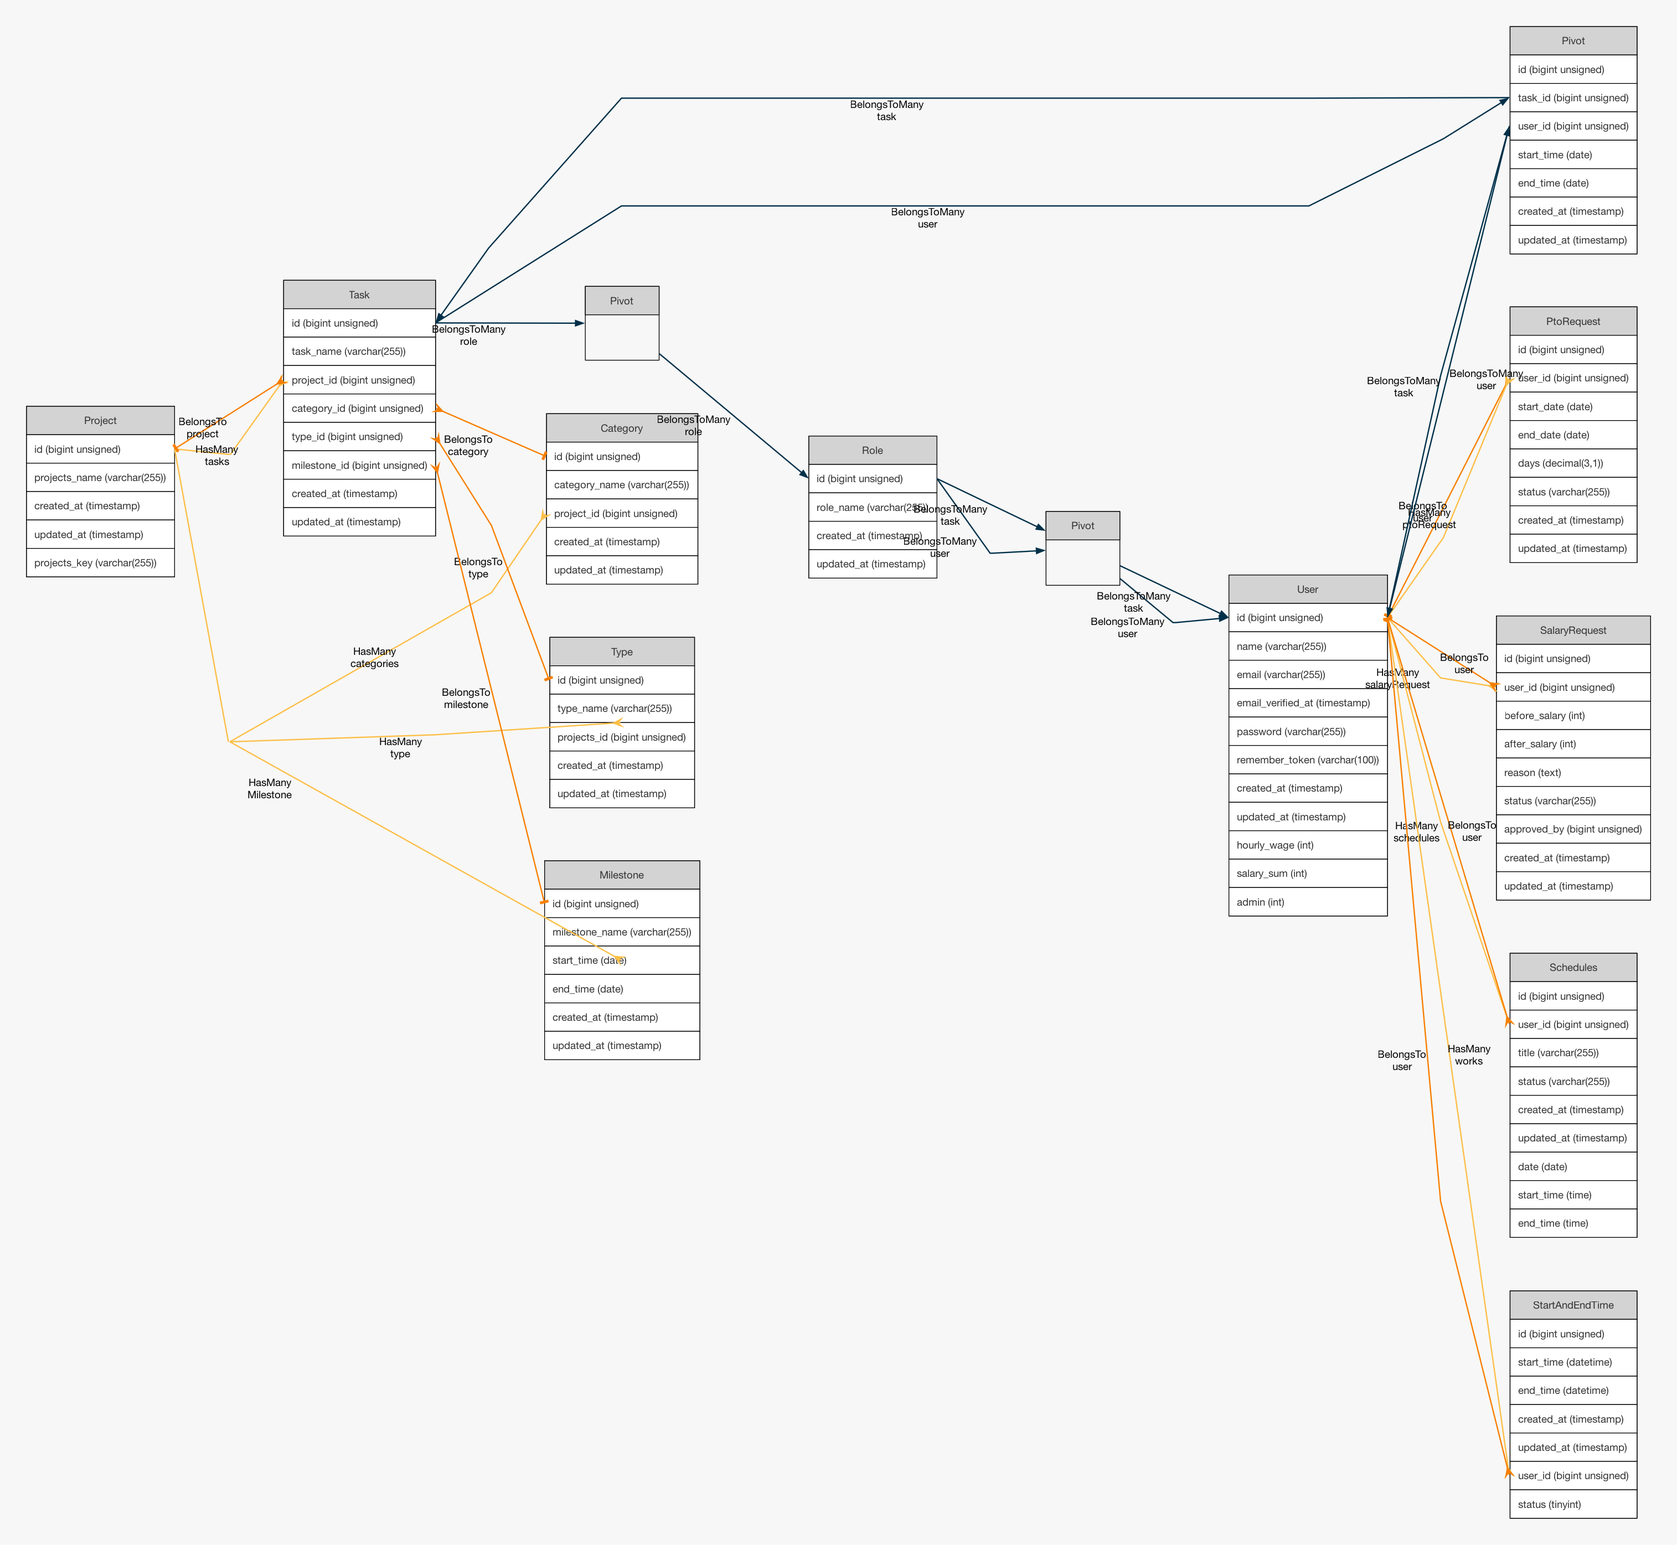
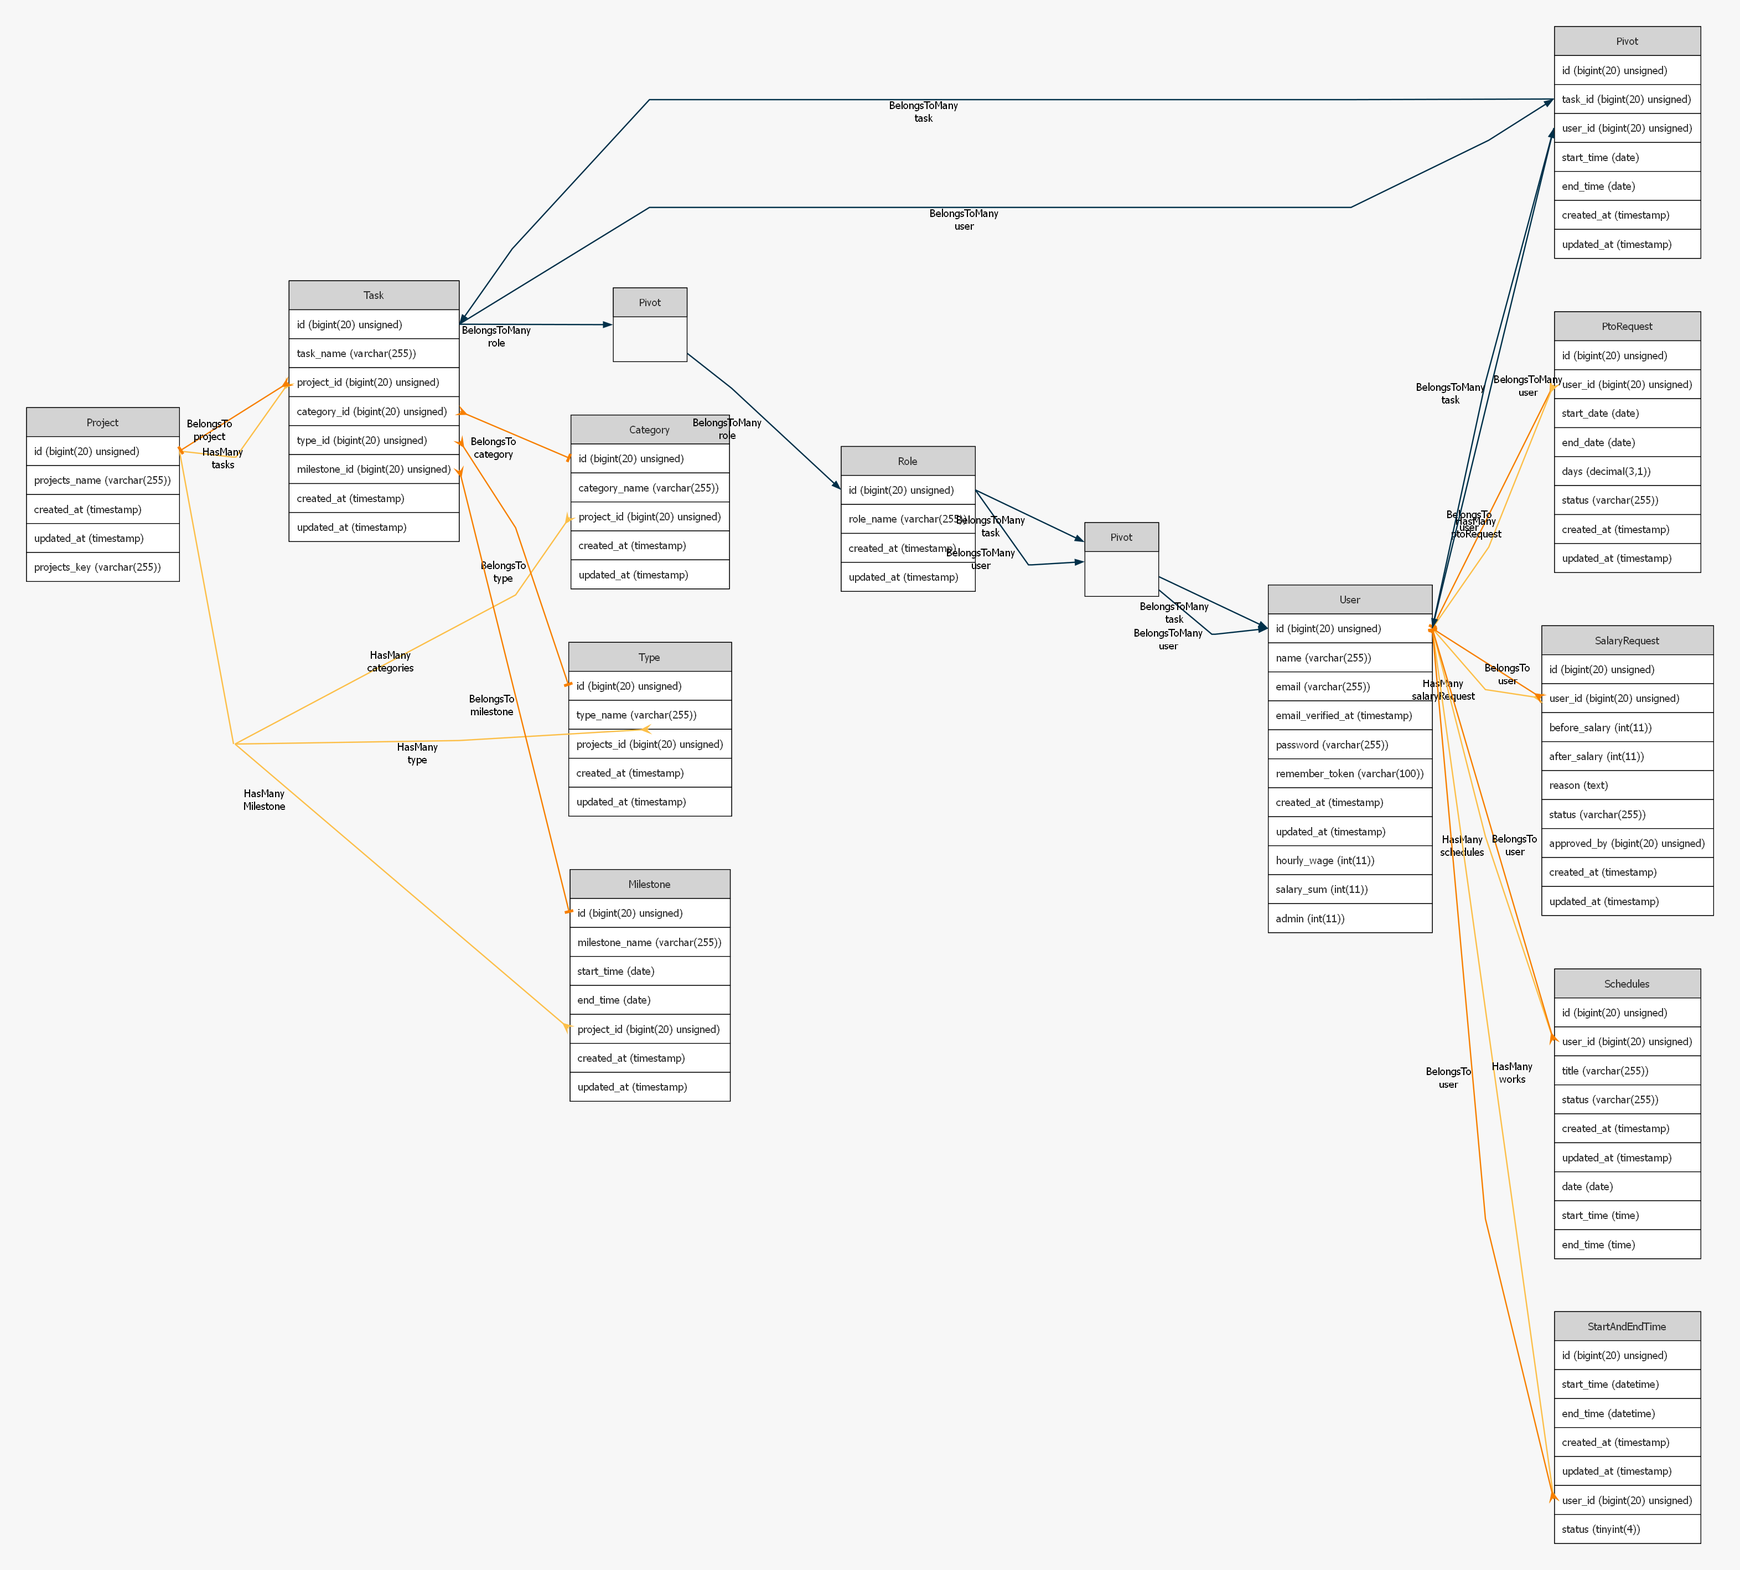
とりあえず追加

diff --git a/.phpstorm.meta.php b/.phpstorm.meta.php
@@ -162,6 +162,7 @@ namespace PHPSTORM_META {
             'blade.compiler' => \Illuminate\View\Compilers\BladeCompiler::class,
             'cache' => \Illuminate\Cache\CacheManager::class,
             'cache.store' => \Illuminate\Cache\Repository::class,
+            'command.generate:diagram' => \BeyondCode\ErdGenerator\GenerateDiagramCommand::class,
             'command.ide-helper.eloquent' => \Barryvdh\LaravelIdeHelper\Console\EloquentCommand::class,
             'command.ide-helper.generate' => \Barryvdh\LaravelIdeHelper\Console\GeneratorCommand::class,
             'command.ide-helper.meta' => \Barryvdh\LaravelIdeHelper\Console\MetaCommand::class,
@@ -360,6 +361,7 @@ namespace PHPSTORM_META {
             'blade.compiler' => \Illuminate\View\Compilers\BladeCompiler::class,
             'cache' => \Illuminate\Cache\CacheManager::class,
             'cache.store' => \Illuminate\Cache\Repository::class,
+            'command.generate:diagram' => \BeyondCode\ErdGenerator\GenerateDiagramCommand::class,
             'command.ide-helper.eloquent' => \Barryvdh\LaravelIdeHelper\Console\EloquentCommand::class,
             'command.ide-helper.generate' => \Barryvdh\LaravelIdeHelper\Console\GeneratorCommand::class,
             'command.ide-helper.meta' => \Barryvdh\LaravelIdeHelper\Console\MetaCommand::class,
@@ -558,6 +560,7 @@ namespace PHPSTORM_META {
             'blade.compiler' => \Illuminate\View\Compilers\BladeCompiler::class,
             'cache' => \Illuminate\Cache\CacheManager::class,
             'cache.store' => \Illuminate\Cache\Repository::class,
+            'command.generate:diagram' => \BeyondCode\ErdGenerator\GenerateDiagramCommand::class,
             'command.ide-helper.eloquent' => \Barryvdh\LaravelIdeHelper\Console\EloquentCommand::class,
             'command.ide-helper.generate' => \Barryvdh\LaravelIdeHelper\Console\GeneratorCommand::class,
             'command.ide-helper.meta' => \Barryvdh\LaravelIdeHelper\Console\MetaCommand::class,
@@ -756,6 +759,7 @@ namespace PHPSTORM_META {
             'blade.compiler' => \Illuminate\View\Compilers\BladeCompiler::class,
             'cache' => \Illuminate\Cache\CacheManager::class,
             'cache.store' => \Illuminate\Cache\Repository::class,
+            'command.generate:diagram' => \BeyondCode\ErdGenerator\GenerateDiagramCommand::class,
             'command.ide-helper.eloquent' => \Barryvdh\LaravelIdeHelper\Console\EloquentCommand::class,
             'command.ide-helper.generate' => \Barryvdh\LaravelIdeHelper\Console\GeneratorCommand::class,
             'command.ide-helper.meta' => \Barryvdh\LaravelIdeHelper\Console\MetaCommand::class,
@@ -954,6 +958,7 @@ namespace PHPSTORM_META {
             'blade.compiler' => \Illuminate\View\Compilers\BladeCompiler::class,
             'cache' => \Illuminate\Cache\CacheManager::class,
             'cache.store' => \Illuminate\Cache\Repository::class,
+            'command.generate:diagram' => \BeyondCode\ErdGenerator\GenerateDiagramCommand::class,
             'command.ide-helper.eloquent' => \Barryvdh\LaravelIdeHelper\Console\EloquentCommand::class,
             'command.ide-helper.generate' => \Barryvdh\LaravelIdeHelper\Console\GeneratorCommand::class,
             'command.ide-helper.meta' => \Barryvdh\LaravelIdeHelper\Console\MetaCommand::class,
@@ -1152,6 +1157,7 @@ namespace PHPSTORM_META {
             'blade.compiler' => \Illuminate\View\Compilers\BladeCompiler::class,
             'cache' => \Illuminate\Cache\CacheManager::class,
             'cache.store' => \Illuminate\Cache\Repository::class,
+            'command.generate:diagram' => \BeyondCode\ErdGenerator\GenerateDiagramCommand::class,
             'command.ide-helper.eloquent' => \Barryvdh\LaravelIdeHelper\Console\EloquentCommand::class,
             'command.ide-helper.generate' => \Barryvdh\LaravelIdeHelper\Console\GeneratorCommand::class,
             'command.ide-helper.meta' => \Barryvdh\LaravelIdeHelper\Console\MetaCommand::class,
@@ -1350,6 +1356,7 @@ namespace PHPSTORM_META {
             'blade.compiler' => \Illuminate\View\Compilers\BladeCompiler::class,
             'cache' => \Illuminate\Cache\CacheManager::class,
             'cache.store' => \Illuminate\Cache\Repository::class,
+            'command.generate:diagram' => \BeyondCode\ErdGenerator\GenerateDiagramCommand::class,
             'command.ide-helper.eloquent' => \Barryvdh\LaravelIdeHelper\Console\EloquentCommand::class,
             'command.ide-helper.generate' => \Barryvdh\LaravelIdeHelper\Console\GeneratorCommand::class,
             'command.ide-helper.meta' => \Barryvdh\LaravelIdeHelper\Console\MetaCommand::class,
@@ -1548,6 +1555,7 @@ namespace PHPSTORM_META {
             'blade.compiler' => \Illuminate\View\Compilers\BladeCompiler::class,
             'cache' => \Illuminate\Cache\CacheManager::class,
             'cache.store' => \Illuminate\Cache\Repository::class,
+            'command.generate:diagram' => \BeyondCode\ErdGenerator\GenerateDiagramCommand::class,
             'command.ide-helper.eloquent' => \Barryvdh\LaravelIdeHelper\Console\EloquentCommand::class,
             'command.ide-helper.generate' => \Barryvdh\LaravelIdeHelper\Console\GeneratorCommand::class,
             'command.ide-helper.meta' => \Barryvdh\LaravelIdeHelper\Console\MetaCommand::class,
@@ -1746,6 +1754,7 @@ namespace PHPSTORM_META {
             'blade.compiler' => \Illuminate\View\Compilers\BladeCompiler::class,
             'cache' => \Illuminate\Cache\CacheManager::class,
             'cache.store' => \Illuminate\Cache\Repository::class,
+            'command.generate:diagram' => \BeyondCode\ErdGenerator\GenerateDiagramCommand::class,
             'command.ide-helper.eloquent' => \Barryvdh\LaravelIdeHelper\Console\EloquentCommand::class,
             'command.ide-helper.generate' => \Barryvdh\LaravelIdeHelper\Console\GeneratorCommand::class,
             'command.ide-helper.meta' => \Barryvdh\LaravelIdeHelper\Console\MetaCommand::class,
@@ -1944,6 +1953,7 @@ namespace PHPSTORM_META {
             'blade.compiler' => \Illuminate\View\Compilers\BladeCompiler::class,
             'cache' => \Illuminate\Cache\CacheManager::class,
             'cache.store' => \Illuminate\Cache\Repository::class,
+            'command.generate:diagram' => \BeyondCode\ErdGenerator\GenerateDiagramCommand::class,
             'command.ide-helper.eloquent' => \Barryvdh\LaravelIdeHelper\Console\EloquentCommand::class,
             'command.ide-helper.generate' => \Barryvdh\LaravelIdeHelper\Console\GeneratorCommand::class,
             'command.ide-helper.meta' => \Barryvdh\LaravelIdeHelper\Console\MetaCommand::class,
@@ -2142,6 +2152,7 @@ namespace PHPSTORM_META {
             'blade.compiler' => \Illuminate\View\Compilers\BladeCompiler::class,
             'cache' => \Illuminate\Cache\CacheManager::class,
             'cache.store' => \Illuminate\Cache\Repository::class,
+            'command.generate:diagram' => \BeyondCode\ErdGenerator\GenerateDiagramCommand::class,
             'command.ide-helper.eloquent' => \Barryvdh\LaravelIdeHelper\Console\EloquentCommand::class,
             'command.ide-helper.generate' => \Barryvdh\LaravelIdeHelper\Console\GeneratorCommand::class,
             'command.ide-helper.meta' => \Barryvdh\LaravelIdeHelper\Console\MetaCommand::class,

diff --git a/_ide_helper_models.php b/_ide_helper_models.php
@@ -36,6 +36,7 @@ namespace App\Models{
  * @property string $milestone_name
  * @property string|null $start_time
  * @property string|null $end_time
+ * @property int $project_id
  * @property \Illuminate\Support\Carbon|null $created_at
  * @property \Illuminate\Support\Carbon|null $updated_at
  * @method static \Illuminate\Database\Eloquent\Builder|Milestone newModelQuery()
@@ -45,6 +46,7 @@ namespace App\Models{
  * @method static \Illuminate\Database\Eloquent\Builder|Milestone whereEndTime($value)
  * @method static \Illuminate\Database\Eloquent\Builder|Milestone whereId($value)
  * @method static \Illuminate\Database\Eloquent\Builder|Milestone whereMilestoneName($value)
+ * @method static \Illuminate\Database\Eloquent\Builder|Milestone whereProjectId($value)
  * @method static \Illuminate\Database\Eloquent\Builder|Milestone whereStartTime($value)
  * @method static \Illuminate\Database\Eloquent\Builder|Milestone whereUpdatedAt($value)
  */
@@ -58,10 +60,14 @@ namespace App\Models{
  * @property \Illuminate\Support\Carbon|null $created_at
  * @property \Illuminate\Support\Carbon|null $updated_at
  * @property string $projects_key
+ * @property-read \Illuminate\Database\Eloquent\Collection<int, \App\Models\Milestone> $Milestone
+ * @property-read int|null $milestone_count
  * @property-read \Illuminate\Database\Eloquent\Collection<int, \App\Models\Category> $categories
  * @property-read int|null $categories_count
  * @property-read \Illuminate\Database\Eloquent\Collection<int, \App\Models\Task> $tasks
  * @property-read int|null $tasks_count
+ * @property-read \Illuminate\Database\Eloquent\Collection<int, \App\Models\Type> $type
+ * @property-read int|null $type_count
  * @method static \Illuminate\Database\Eloquent\Builder|Project newModelQuery()
  * @method static \Illuminate\Database\Eloquent\Builder|Project newQuery()
  * @method static \Illuminate\Database\Eloquent\Builder|Project query()
@@ -119,6 +125,8 @@ namespace App\Models{
  * @method static \Illuminate\Database\Eloquent\Builder|Role whereUpdatedAt($value)
  * @mixin \Eloquent
  * @property string $role_name
+ * @property-read \Illuminate\Database\Eloquent\Collection<int, \App\Models\User> $task
+ * @property-read int|null $task_count
  * @method static \Illuminate\Database\Eloquent\Builder|Role whereRoleName($value)
  */
 	class Role extends \Eloquent {}
@@ -223,7 +231,15 @@ namespace App\Models{
  * @property int $milestone_id
  * @property \Illuminate\Support\Carbon|null $created_at
  * @property \Illuminate\Support\Carbon|null $updated_at
+ * @property-read \App\Models\Category $category
+ * @property-read \App\Models\Milestone $milestone
  * @property-read \App\Models\Project $project
+ * @property-read \Illuminate\Database\Eloquent\Collection<int, \App\Models\Role> $role
+ * @property-read int|null $role_count
+ * @property-read \App\Models\Type $type
+ * @property-read \Illuminate\Database\Eloquent\Collection<int, \App\Models\User> $user
+ * @property-read int|null $user_count
+ * @method static \Database\Factories\TaskFactory factory($count = null, $state = [])
  * @method static \Illuminate\Database\Eloquent\Builder|Task newModelQuery()
  * @method static \Illuminate\Database\Eloquent\Builder|Task newQuery()
  * @method static \Illuminate\Database\Eloquent\Builder|Task query()
@@ -305,6 +321,8 @@ namespace App\Models{
  * @method static \Illuminate\Database\Eloquent\Builder|User whereUpdatedAt($value)
  * @mixin \Eloquent
  * @property int $admin
+ * @property-read \Illuminate\Database\Eloquent\Collection<int, \App\Models\Task> $task
+ * @property-read int|null $task_count
  */
 	class User extends \Eloquent {}
 }

diff --git a/database/seeders/RoleSeeder.php b/database/seeders/RoleSeeder.php
@@ -1,0 +1,49 @@
+<?php
+
+namespace Database\Seeders;
+
+use App\Models\Project;
+use Illuminate\Database\Seeder;
+use App\Models\Role;
+use App\Models\User;
+
+class RoleSeeder extends Seeder
+{
+    /**
+     * Run the database seeds.
+     */
+    public function run(): void
+    {
+        $roles = [
+            'フロントエンジニア',
+            'バックエンジニア',
+            'デザイナー',
+            'PM',
+            'テスター'
+        ];
+
+        foreach ($roles as $role) {
+            Role::create([
+                'role_name' => $role,
+            ]);
+        }
+
+        $users = User::all();
+
+        foreach (Role::all() as $role) {
+            // ロール1つにつき1~5名を選出している
+            $randomUsers = $users->random(rand(1, 5));
+            foreach ($randomUsers as $user) {
+                // 中間テーブルにインサート
+                $role->tasks()->attach($user->id, [
+                    'role_level' => fake()->randomElement([
+                        '見習い',
+                        'ジュニア',
+                        'ミドル',
+                        'シニア'
+                    ])
+                ]);
+            }
+        }
+    }
+}

diff --git a/database/factories/TaskFactory.php b/database/factories/TaskFactory.php
@@ -2,10 +2,15 @@
 
 namespace Database\Factories;
 
+use App\Models\Category;
+use App\Models\Milestone;
+use App\Models\Task;
 use Illuminate\Database\Eloquent\Factories\Factory;
+use App\Models\Project;
+use App\Models\Type;
 
 /**
- * @extends \Illuminate\Database\Eloquent\Factories\Factory<\App\Models\Task>
+ * @extends Factory<Task>
  */
 class TaskFactory extends Factory
 {
@@ -17,7 +22,22 @@ class TaskFactory extends Factory
     public function definition(): array
     {
         return [
-            'task_name' => fake()->name()
+            'task_name' => fake()->randomElement([
+                'ログイン修正',
+                '通知機能追加',
+                'UI改善',
+                'API修正',
+                'バグ対応',
+                '認証実装',
+                '一覧画面作成',
+                '検索機能追加',
+                '権限修正',
+                'レイアウト調整',
+            ]),
+            'project_id' => Project::inRandomOrder()->first()->id,
+            'category_id' => Category::inRandomOrder()->first()->id,
+            'type_id' => Type::inRandomOrder()->first()->id,
+            'milestone_id' => Milestone::inRandomOrder()->first()->id
         ];
     }
 }

diff --git a/database/seeders/TaskSeeder.php b/database/seeders/TaskSeeder.php
@@ -1,0 +1,36 @@
+<?php
+
+namespace Database\Seeders;
+
+use App\Models\Task;
+use Illuminate\Database\Console\Seeds\WithoutModelEvents;
+use Illuminate\Database\Seeder;
+use App\Models\Role;
+
+class TaskSeeder extends Seeder
+{
+    /**
+     * Run the database seeds.
+     */
+    public function run(): void
+    {
+        Task::factory(100)->create();
+
+        $roles = Role::all();
+
+        foreach (Task::all() as $task) {
+            $randomRoles = $roles->random(rand(1, 5));
+
+            foreach($randomRoles as $role) {
+                $task->roles()->attach($role->id, [
+                    'role_level' => fake()->randomElement([
+                        '見習い',
+                        'ジュニア',
+                        'ミドル',
+                        'シニア'
+                    ])
+                ]);
+            }
+        }
+    }
+}

diff --git a/database/factories/UserFactory.php b/database/factories/UserFactory.php
@@ -24,21 +24,9 @@ class UserFactory extends Factory
      */
     public function definition(): array
     {
-        $names = [
-            '福田',
-            '藤原',
-            '岸和田',
-            '金崎',
-            '大分',
-            '岩本',
-            '橋田',
-            '五十嵐',
-            '鬼割',
-            '小林',
-            '加藤'
-        ];
+
         return [
-            'name' => $this->faker->randomElement($names),
+            'name' => fake()->name(),
             'email' => fake()->unique()->safeEmail(),
             'email_verified_at' => now(),
             'password' => static::$password ??= Hash::make('password'),

diff --git a/app/Models/Role.php b/app/Models/Role.php
@@ -32,12 +32,12 @@ class Role extends Model
         'name',
     ];
 
-    public function user()
+    public function users()
     {
-        return $this->belongsToMany(User::class);
+        return $this->belongsToMany(User::class)->withPivot('role_level');
     }
 
-    public function task()
+    public function tasks()
     {
         return $this->belongsToMany(User::class);
     }

diff --git a/database/seeders/UserSeeder.php b/database/seeders/UserSeeder.php
@@ -2,6 +2,7 @@
 
 namespace Database\Seeders;
 
+use App\Models\Role;
 use Illuminate\Database\Console\Seeds\WithoutModelEvents;
 use Illuminate\Database\Seeder;
 use App\Models\User;
@@ -13,6 +14,7 @@ class UserSeeder extends Seeder
      */
     public function run(): void
     {
-        User::factory()->count(10)->create();
+        User::factory()->count(50)->create();
+
     }
 }

diff --git a/database/migrations/2026_05_25_012957_create_role_user_table.php b/database/migrations/2026_05_25_012957_create_role_user_table.php
@@ -11,7 +11,7 @@ return new class extends Migration
      */
     public function up(): void
     {
-        Schema::create('user_role', function (Blueprint $table) {
+        Schema::create('role_user', function (Blueprint $table) {
             $table->id();
             $table->foreignId('user_id')->constrained();
             $table->foreignId('role_id')->constrained();

diff --git a/database/migrations/2026_05_25_013111_create_role_task_table.php b/database/migrations/2026_05_25_013111_create_role_task_table.php
@@ -11,7 +11,7 @@ return new class extends Migration
      */
     public function up(): void
     {
-        Schema::create('task_role', function (Blueprint $table) {
+        Schema::create('role_task', function (Blueprint $table) {
             $table->id();
             $table->foreignId('task_id')->constrained();
             $table->foreignId('role_id')->constrained();

diff --git a/database/seeders/TypeSeeder.php b/database/seeders/TypeSeeder.php
@@ -15,10 +15,10 @@ class TypeSeeder extends Seeder
     public function run(): void
     {
         $types = [
-            '未対応',
-            '処理中',
-            '承認待ち',
-            '完了'
+            '確認依頼',
+            'バグ修正',
+            'タスク',
+            '要望'
         ];
 
         foreach ($types as $type) {

diff --git a/app/Models/Task.php b/app/Models/Task.php
@@ -44,12 +44,12 @@ class Task extends Model
         return $this->belongsTo(Milestone::class);
     }
 
-    public function user()
+    public function users()
     {
         return $this->belongsToMany(User::class);
     }
 
-    public function role()
+    public function roles()
     {
         return $this->belongsToMany(Role::class);
     }
